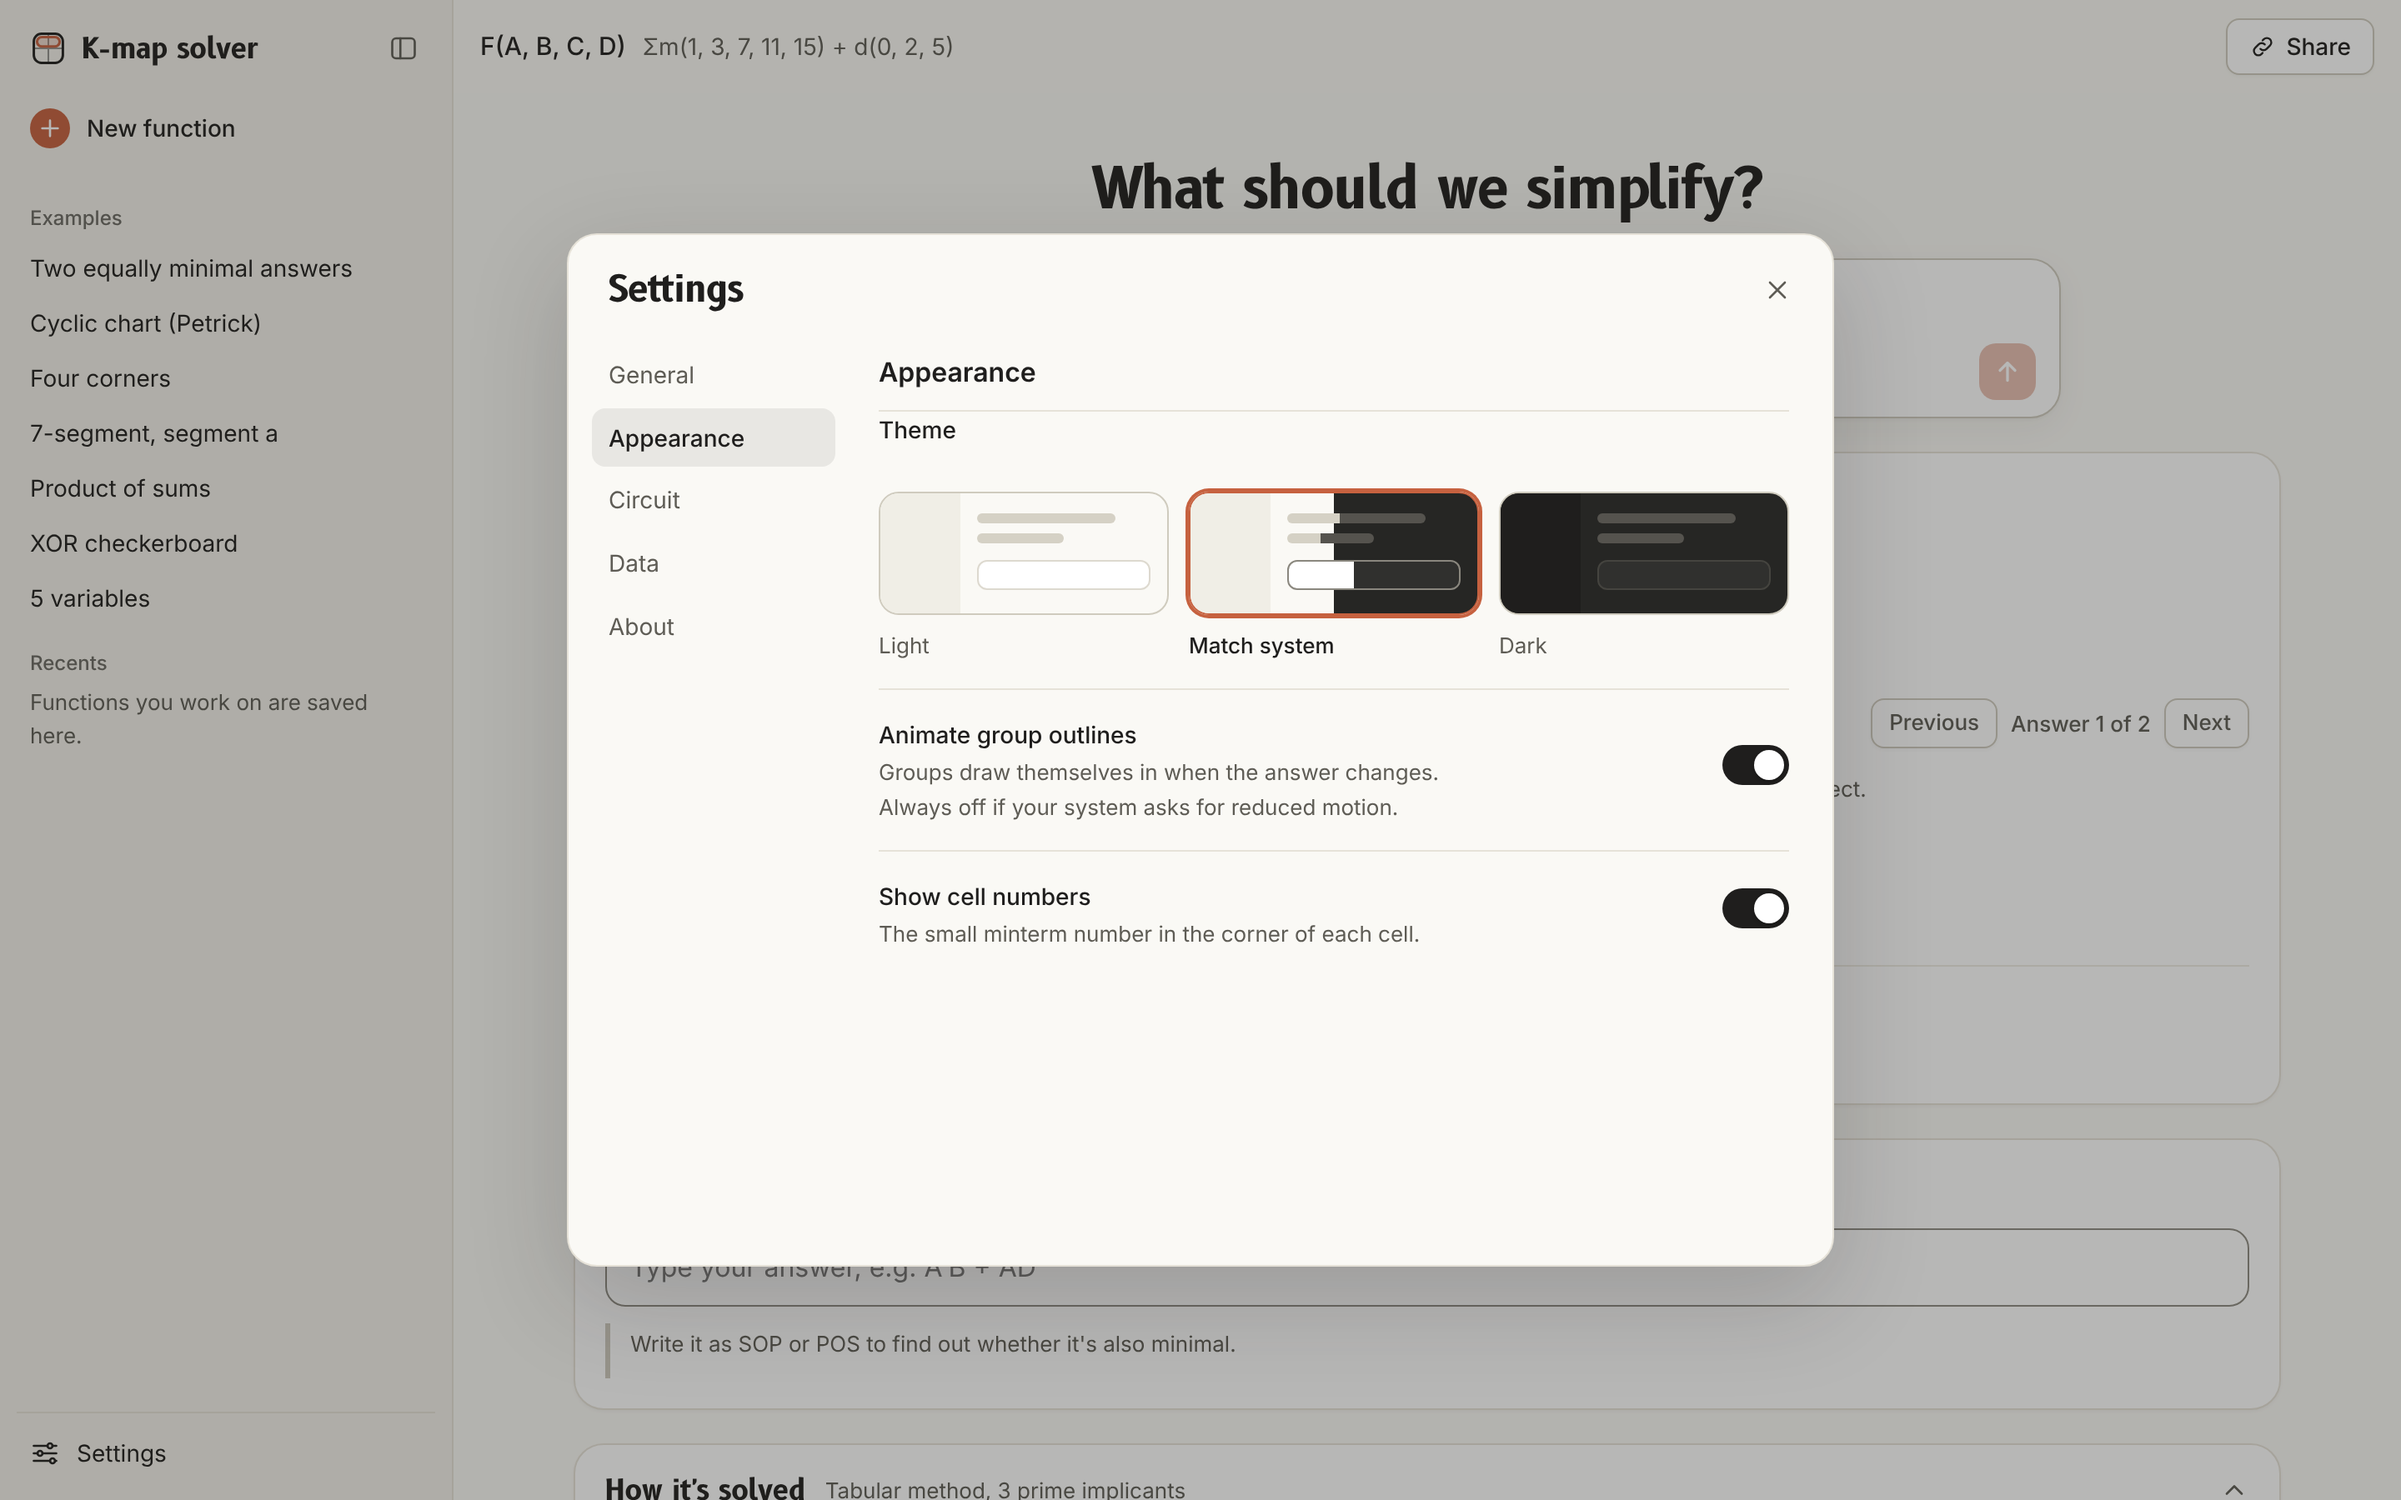
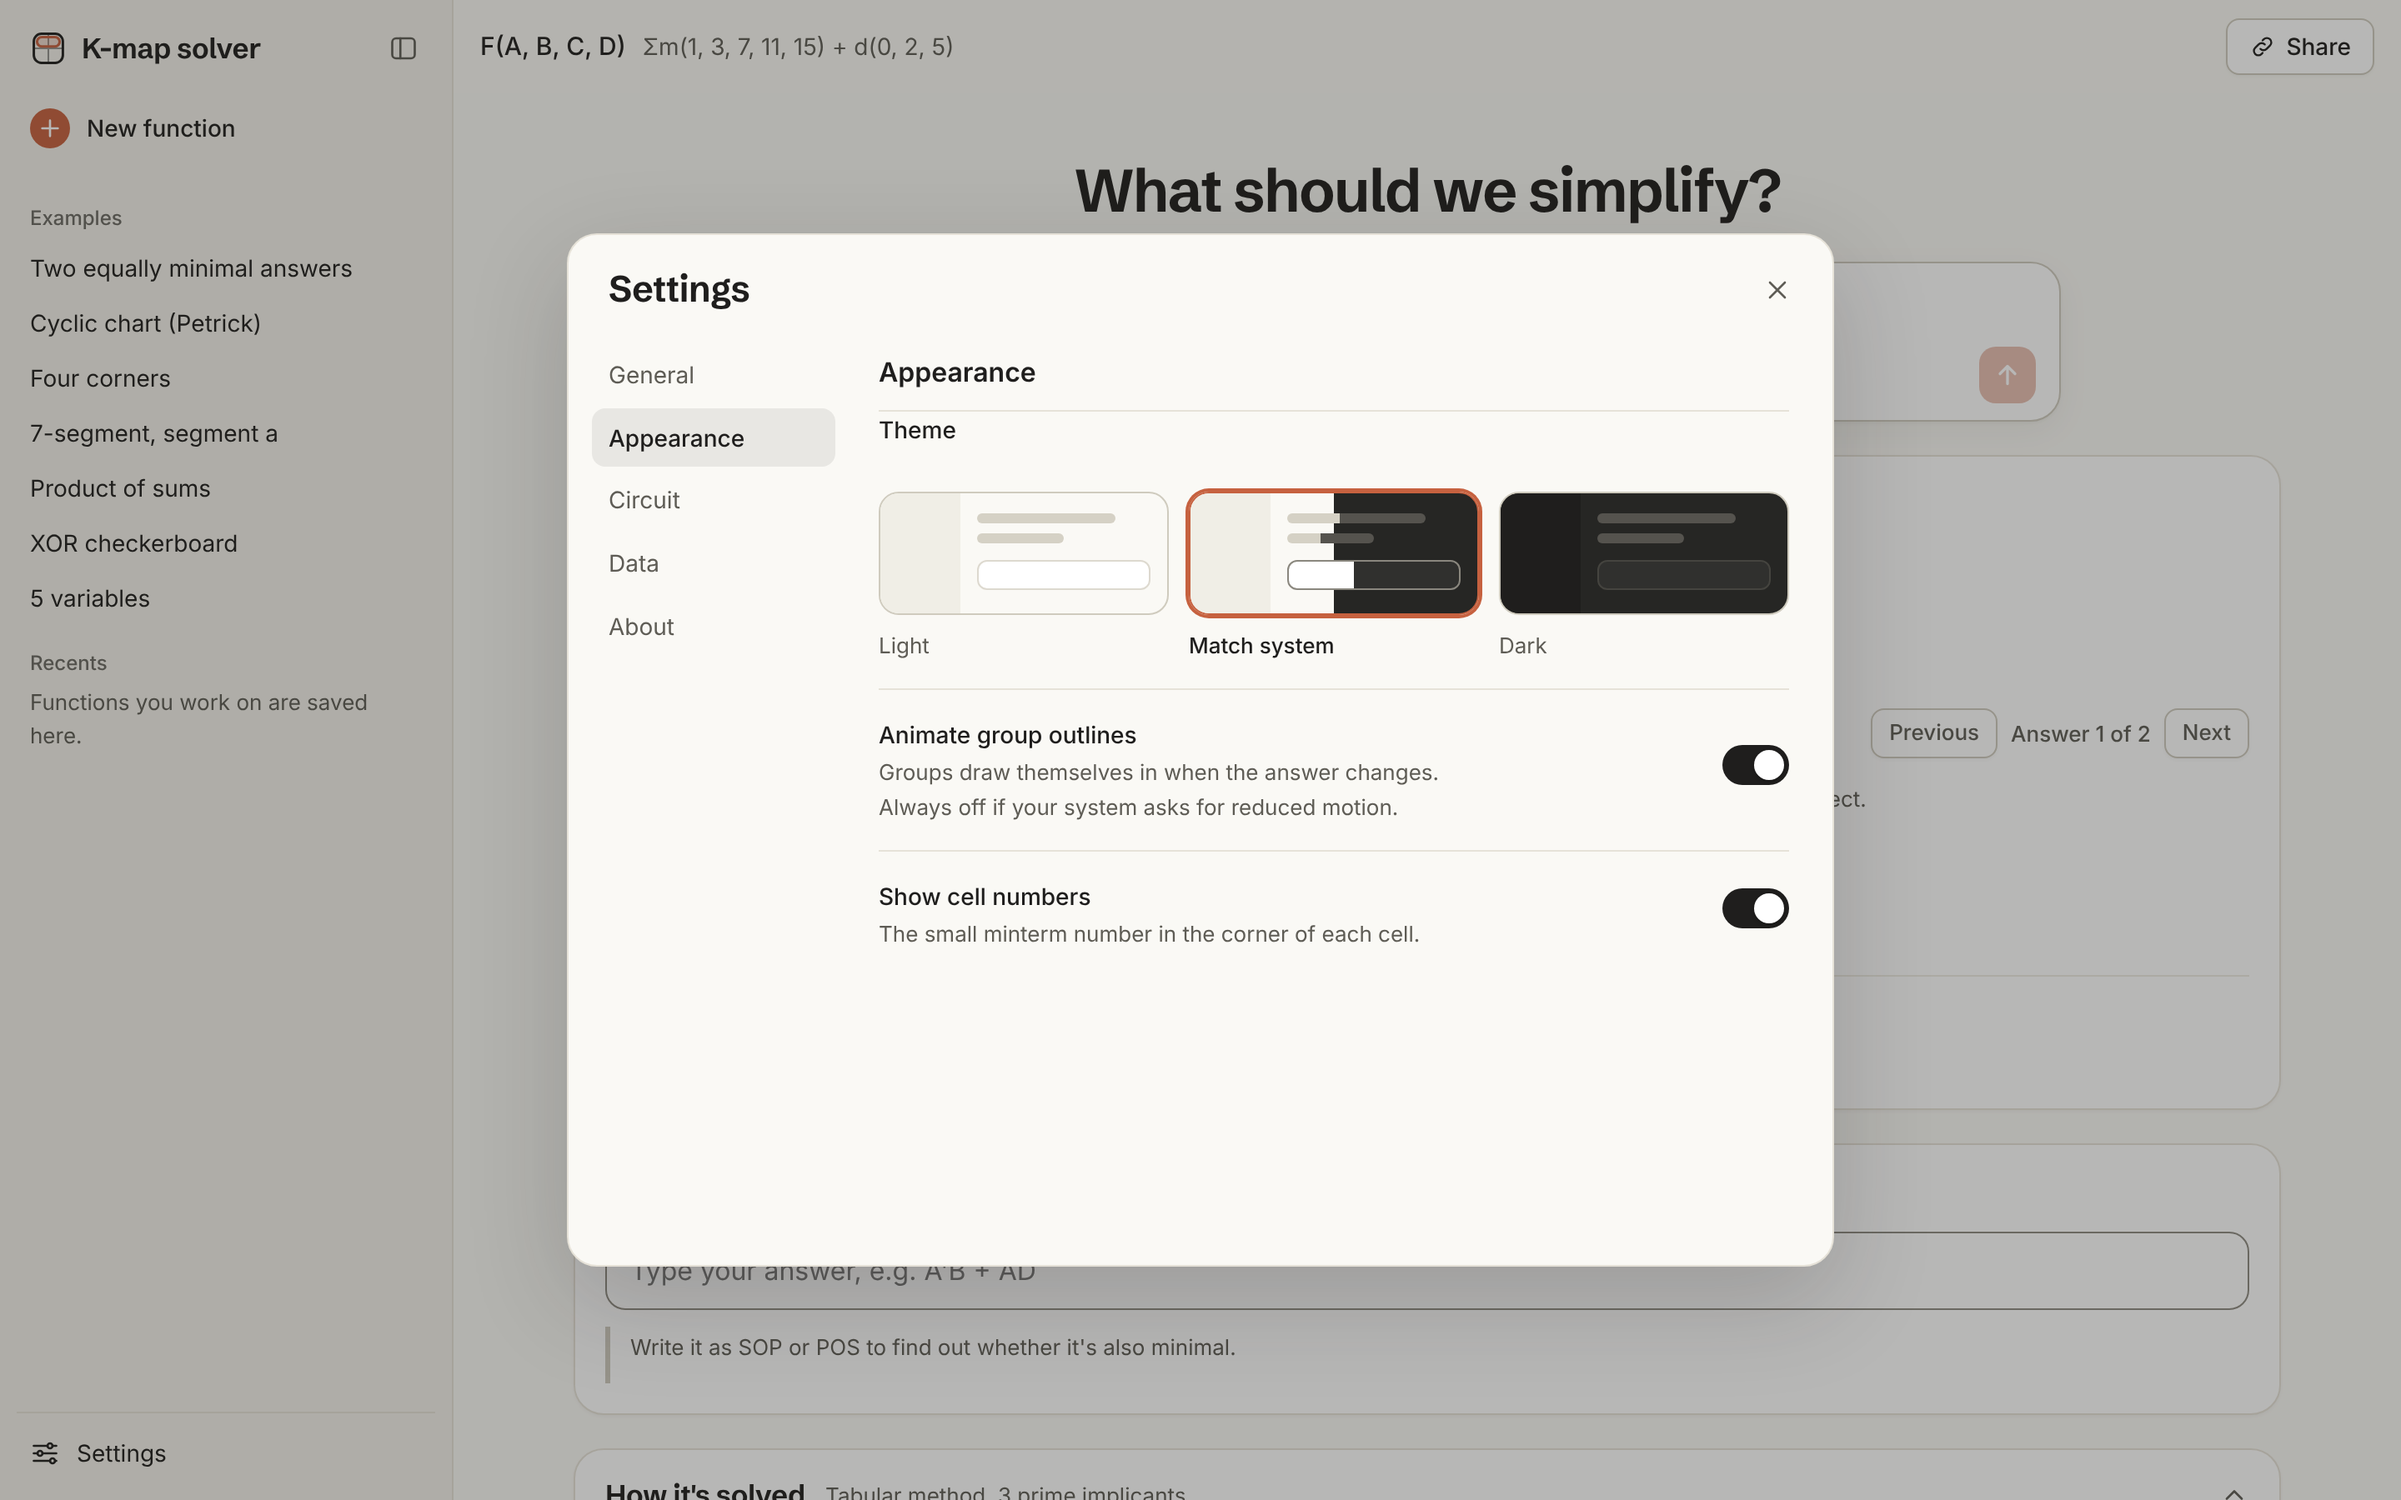
Set display type in Schibsted Grotesk
Chosen from the font comparison. Sets the brand, headings, answer, map values,
and circuit labels; Inter stays for interface text and B612 Mono for bits.

Runtime dependency change (fonts only): added
@fontsource-variable/schibsted-grotesk, removed @fontsource/b612.

Claude-Session: https://claude.ai/code/session_01NFAjrh627R2bH4XXVQLLox

diff --git a/src/ui/styles.css b/src/ui/styles.css
@@ -1,8 +1,8 @@
 /* ==================================================================
    Design tokens. The feel follows the Claude web app: warm neutrals and a
-   terracotta accent used sparingly. Display type is B612, the typeface Airbus
-   commissioned for cockpit screens, where no character may be misread; it sets
-   the headings, the answer, and the map values. Inter handles interface text.
+   terracotta accent used sparingly. Display type is Schibsted Grotesk, a sturdy
+   newspaper grotesk; it sets the headings, the answer, and the map values.
+   Inter handles interface text and B612 Mono the bit patterns.
    Group colors stay on the color-blind-safe Okabe-Ito set.
    ================================================================== */
 :root {
@@ -39,7 +39,7 @@
   --g7: #6f6f00;
   --g8: #3d4b5c;
 
-  --display: 'B612', 'Inter Variable', system-ui, sans-serif;
+  --display: 'Schibsted Grotesk Variable', 'Inter Variable', system-ui, sans-serif;
   --sans: 'Inter Variable', Inter, system-ui, -apple-system, 'Segoe UI', sans-serif;
   --mono: 'B612 Mono', ui-monospace, 'Cascadia Mono', Menlo, monospace;
 
@@ -462,7 +462,7 @@ fieldset {
   gap: 9px;
   font-family: var(--display);
   font-size: 17px;
-  font-weight: 700;
+  font-weight: 650;
   letter-spacing: -0.01em;
 }
 
@@ -661,9 +661,9 @@ fieldset {
 .greeting {
   margin: 20px 0 2px;
   font-family: var(--display);
-  font-size: 34px;
-  font-weight: 700;
-  letter-spacing: -0.02em;
+  font-size: 36px;
+  font-weight: 650;
+  letter-spacing: -0.025em;
   line-height: 1.15;
   text-align: center;
 }
@@ -824,7 +824,7 @@ fieldset {
 .card-title {
   font-family: var(--display);
   font-size: 17px;
-  font-weight: 700;
+  font-weight: 650;
   letter-spacing: -0.01em;
 }
 
@@ -1058,7 +1058,7 @@ fieldset {
 }
 
 .cell.v1 .val {
-  font-weight: 700;
+  font-weight: 650;
 }
 
 .cell.v0 .val {
@@ -1244,9 +1244,9 @@ fieldset {
 }
 
 .answer {
-  font-size: 32px;
+  font-size: 34px;
   line-height: 1.5;
-  font-weight: 700;
+  font-weight: 650;
   letter-spacing: -0.01em;
   overflow-wrap: anywhere;
 }
@@ -1814,7 +1814,7 @@ table.chart tr.essential th {
 .settings-head h2 {
   font-family: var(--display);
   font-size: 22px;
-  font-weight: 700;
+  font-weight: 650;
   letter-spacing: -0.015em;
 }
 

diff --git a/src/ui/Circuit.tsx b/src/ui/Circuit.tsx
@@ -38,7 +38,7 @@ export function Circuit({ cubes, n, names, form, defaultStyle }: Props) {
     const css = getComputedStyle(svg);
     clone.setAttribute('xmlns', 'http://www.w3.org/2000/svg');
     clone.setAttribute('color', css.color);
-    clone.setAttribute('font-family', 'B612, Inter, Arial, sans-serif');
+    clone.setAttribute('font-family', 'Schibsted Grotesk, Inter, Arial, sans-serif');
     const bg = document.createElementNS('http://www.w3.org/2000/svg', 'rect');
     bg.setAttribute('width', '100%');
     bg.setAttribute('height', '100%');

diff --git a/src/main.tsx b/src/main.tsx
@@ -1,6 +1,5 @@
 import '@fontsource-variable/inter';
-import '@fontsource/b612/400.css';
-import '@fontsource/b612/700.css';
+import '@fontsource-variable/schibsted-grotesk';
 import '@fontsource/b612-mono/400.css';
 import './ui/styles.css';
 import { StrictMode } from 'react';

diff --git a/docs/REQUIREMENTS.md b/docs/REQUIREMENTS.md
@@ -45,7 +45,7 @@ A free web app that simplifies any Boolean function of 2–6 variables. It must:
 | --- | --- |
 | FR-26 | **Sidebar** with *New function*, textbook examples, and *Recents*. Every function worked on is saved in Recents, titled by its minimal answer, and can be reopened or removed. On narrow screens the sidebar is a drawer; on wide screens it can be collapsed. |
 | FR-27 | **Settings dialog** with sections: *General* (variable names, 3-variable layout, variable count and answer form for new functions), *Appearance* (light, dark, or system theme; group outline animation; cell numbers), *Circuit* (default gate style), *Data* (clear Recents, reset settings), and *About*. Settings are remembered between visits. |
-| FR-28 | **Visual design** follows the feel of the Claude web app: warm neutral colors, a composer-style input, rounded cards, and a tabbed settings dialog. Display type is B612, chosen for its unambiguous characters. It uses its own name, logo, and open-source fonts. |
+| FR-28 | **Visual design** follows the feel of the Claude web app: warm neutral colors, a composer-style input, rounded cards, and a tabbed settings dialog. Display type is Schibsted Grotesk. It uses its own name, logo, and open-source fonts. |
 
 ### Solving
 

diff --git a/README.md b/README.md
@@ -97,7 +97,7 @@ npm run dev
 ## How it's built
 
 - **TypeScript + React + Vite**, deployed to GitHub Pages by GitHub Actions on every push to `main`.
-- **Design** takes its feel from the Claude web app: warm neutrals and a composer-style input. Headings, answers, and the map are set in B612, the typeface Airbus commissioned for cockpit screens so that no character can be misread (no mixing up `0` and `O`, or `1` and `l`). Interface text is Inter. Name, logo, and fonts are its own.
+- **Design** takes its feel from the Claude web app: warm neutrals and a composer-style input. Headings, answers, and the map are set in Schibsted Grotesk, interface text in Inter, and bit patterns in B612 Mono. Name, logo, and fonts are its own.
 - **`src/engine/`** holds all the logic in pure TypeScript with no UI code: Quine-McCluskey, the exact cover search, Petrick's method, the expression parser, map geometry, and circuit layout. **`src/ui/`** only renders it. Lint rules enforce the split.
 - Docs written before the code:
   - [Research](docs/RESEARCH.md): existing tools, algorithms, textbook conventions, common student mistakes
